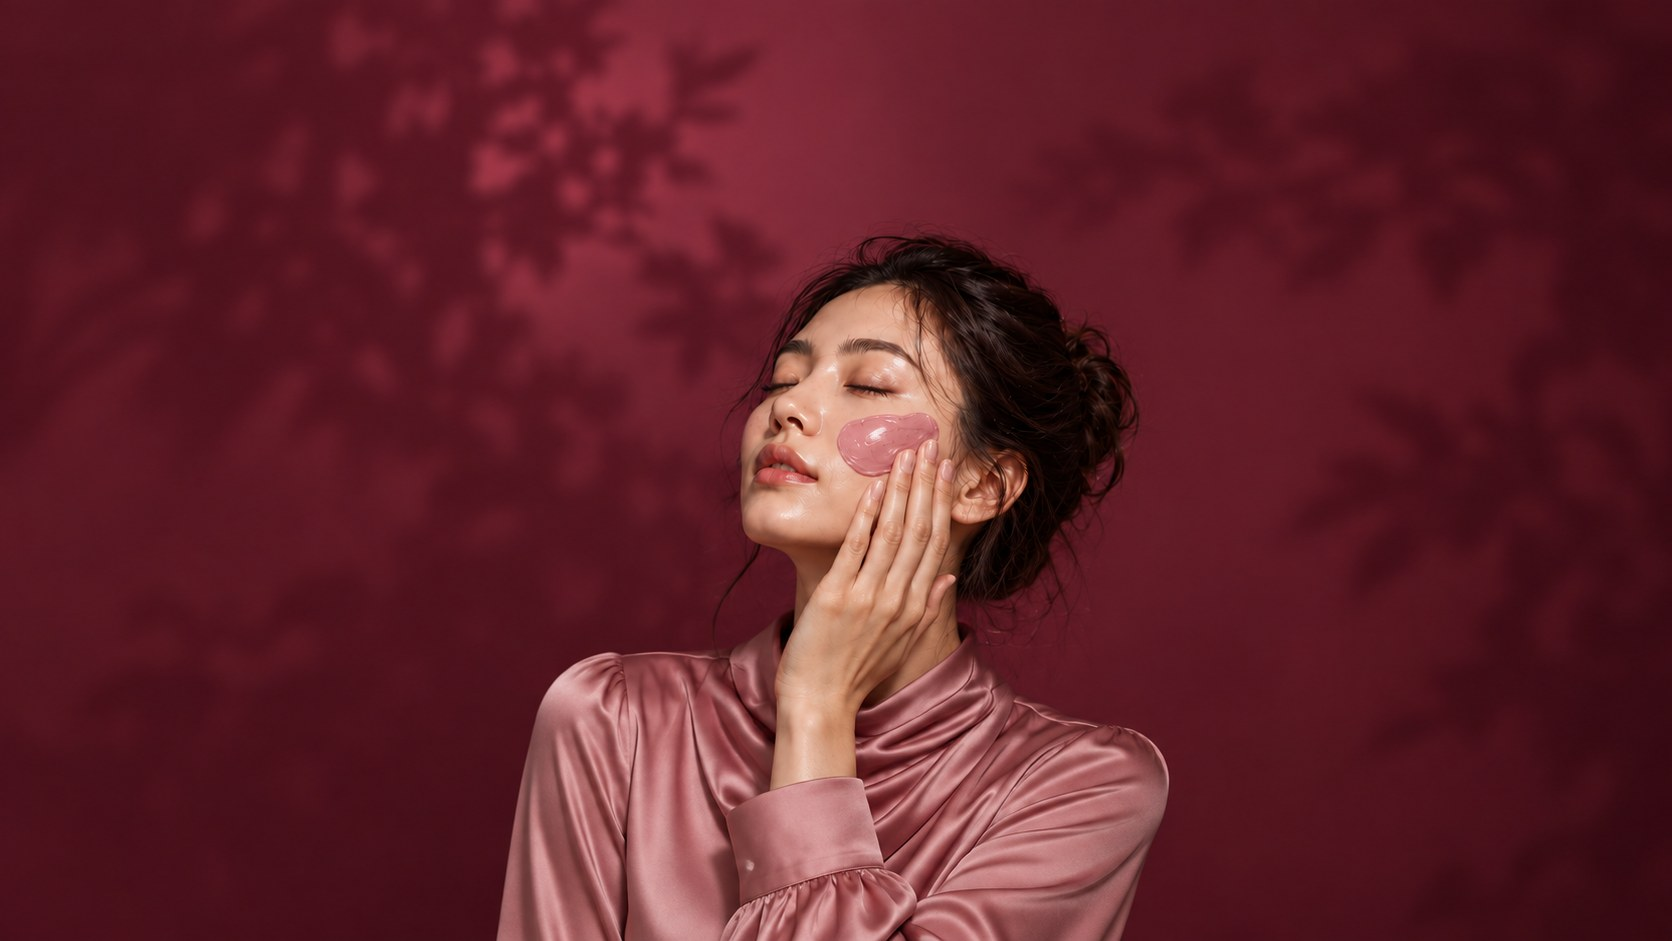
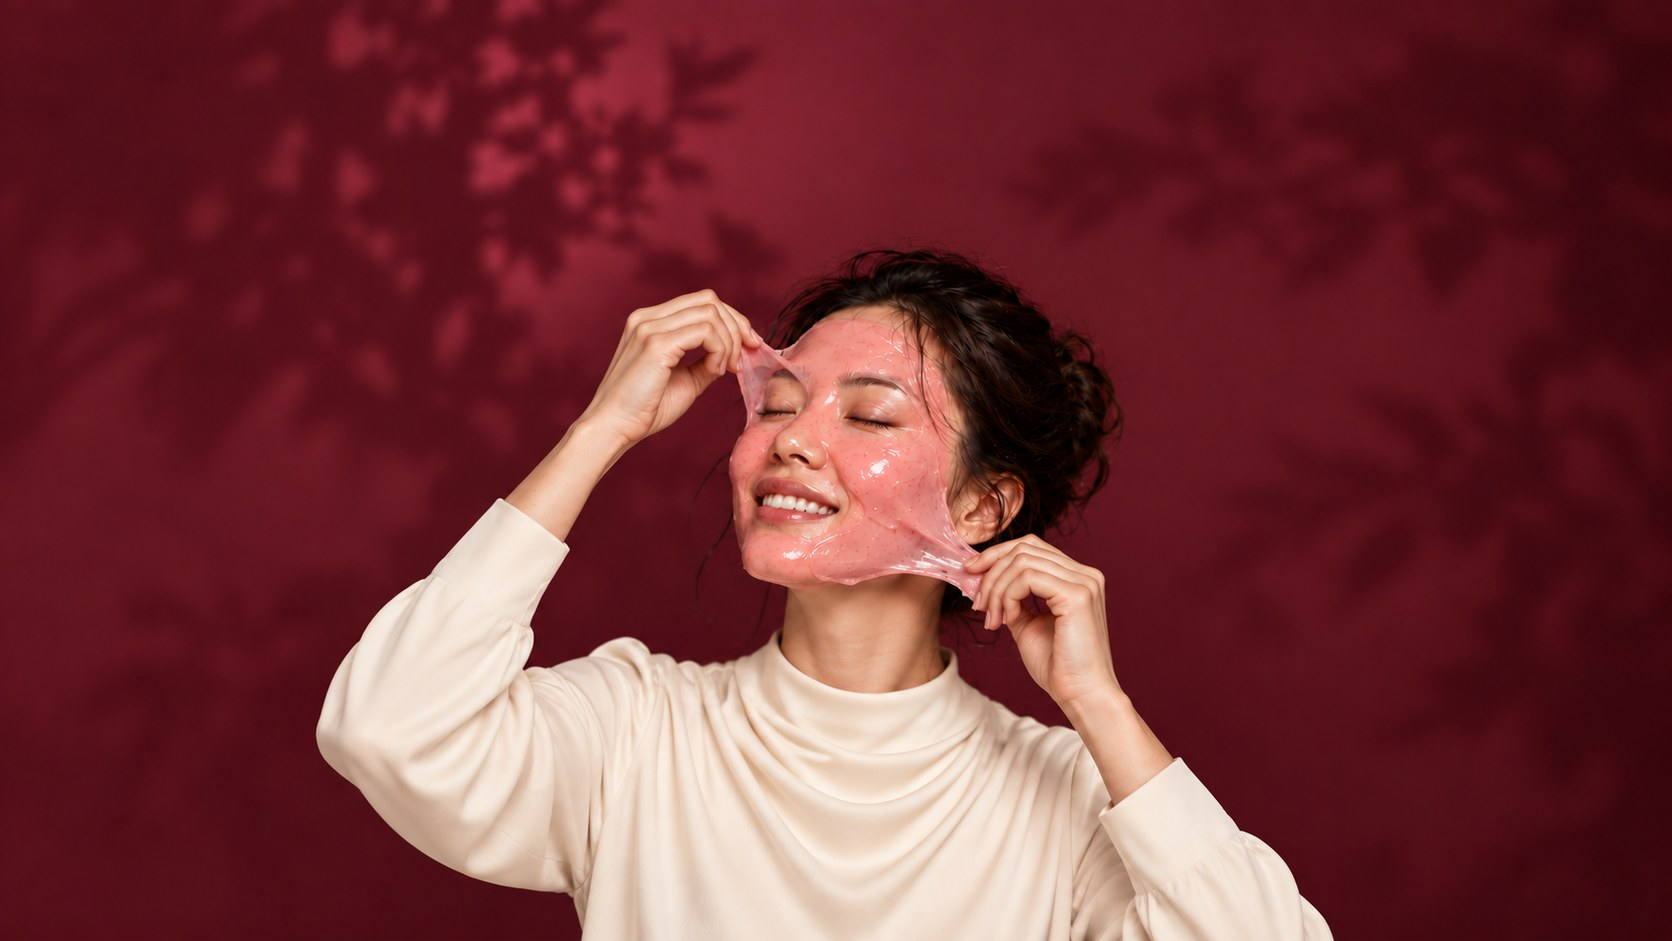
Homepage hero: new peel-off mask photo
Cut-out re-aligned to the background frame; right copy moved up clear of the sleeve.

Changed region(s): [[0.1866, 0.2465, 0.8086, 1.0]]

diff --git a/index.html b/index.html
@@ -269,7 +269,7 @@
   }
   .lady-hero.go .lh-copy { opacity: 1; transform: none; }
   .lh-copy.left { left: clamp(24px, 4.5vw, 72px); max-width: 27vw; }
-  .lh-copy.right { right: clamp(24px, 4.5vw, 72px); max-width: min(300px, 24vw); transition-delay: 1.7s; }
+  .lh-copy.right { right: clamp(24px, 4.5vw, 72px); bottom: clamp(150px, 22vh, 230px); max-width: min(300px, 24vw); transition-delay: 1.7s; }   /* sits above her raised elbow */
   .lh-eyebrow { font-size: 11px; letter-spacing: 0.28em; text-transform: uppercase; color: #F3A9C9; margin-bottom: 16px; }
   .lh-copy h1 {
     font-family: 'Outfit', sans-serif; font-weight: 400; text-transform: uppercase;
